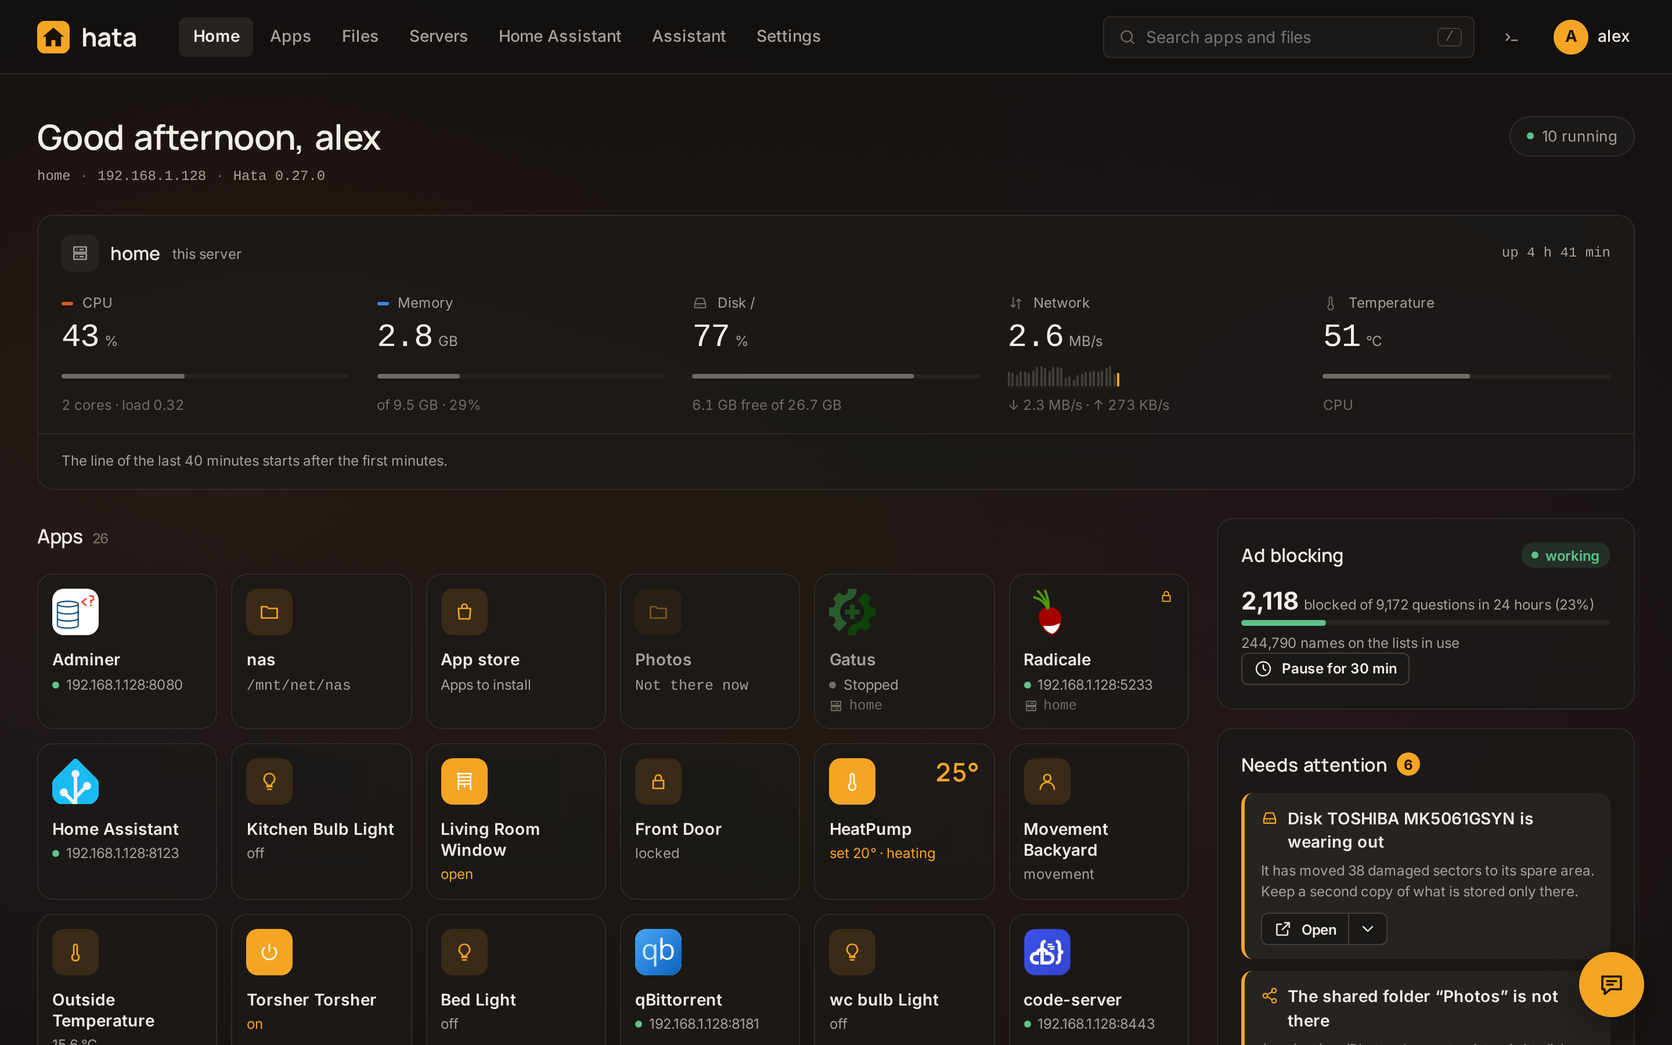
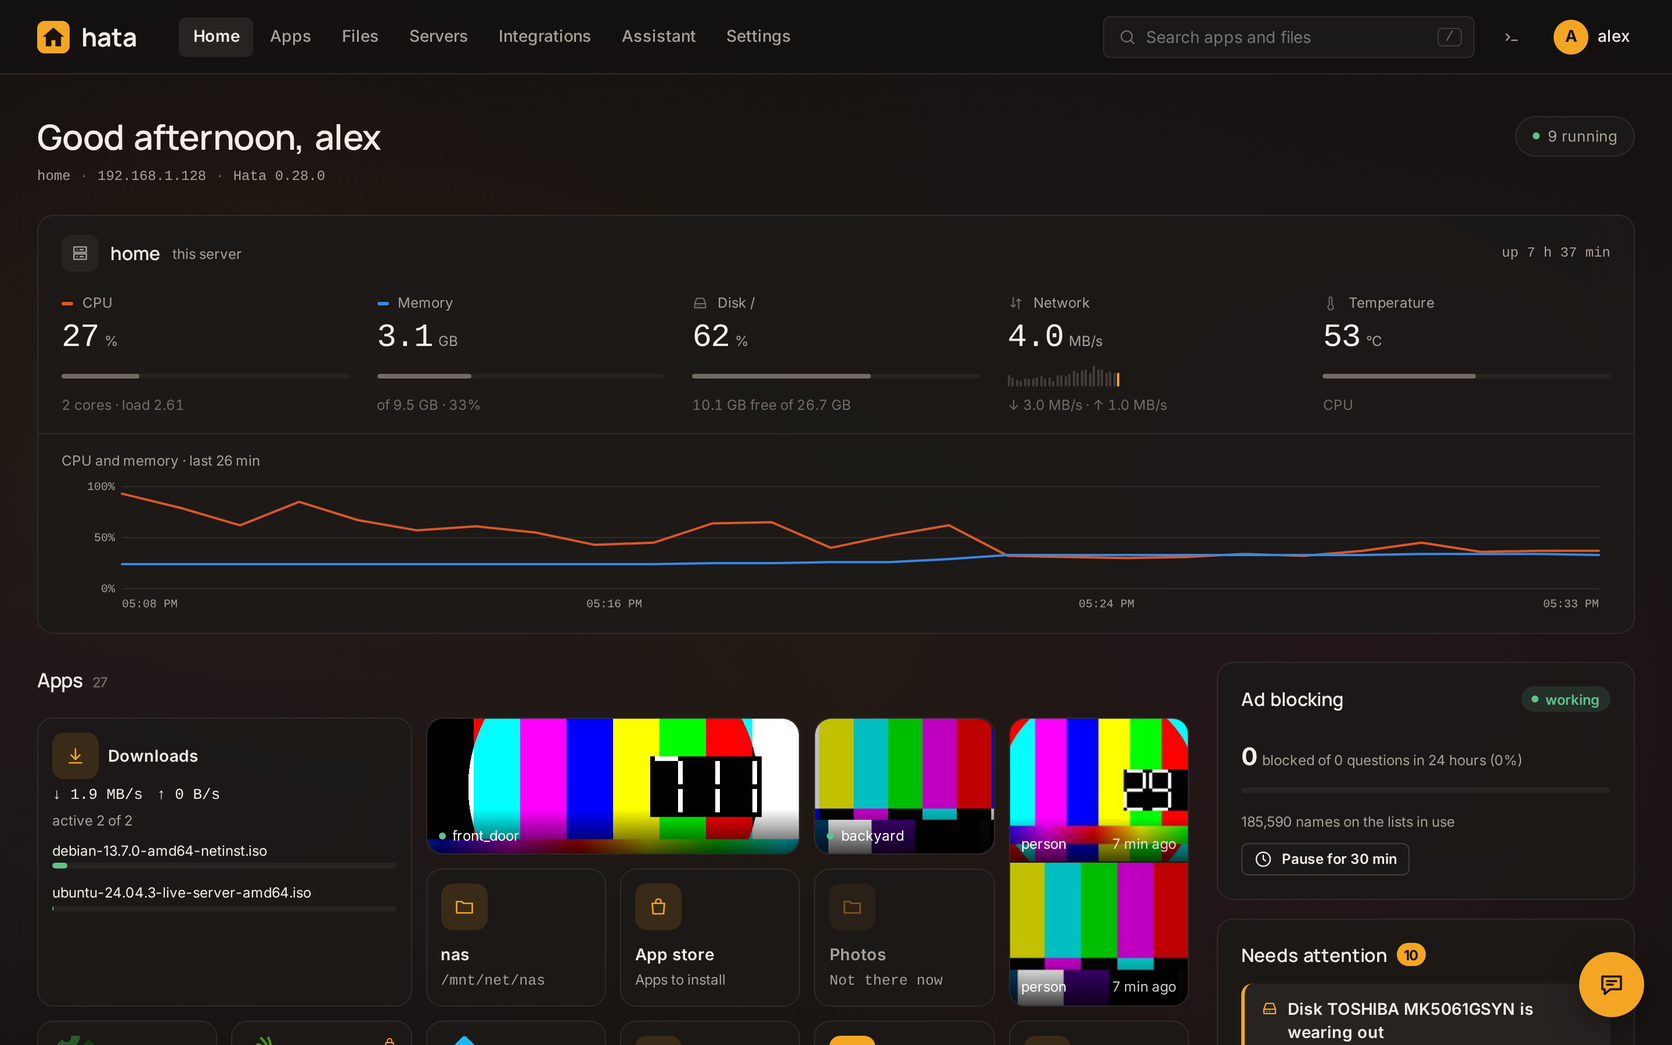
0.28.0: the README tells of integrations and widgets, with new pictures

diff --git a/src/version.ts b/src/version.ts
@@ -1,7 +1,7 @@
 /** Set by the build of a pre-release (`0.22.0-beta.1`): the tag says the suffix, this file the version */
 declare const HATA_BUILD_VERSION: string | undefined;
 
-export const VERSION = typeof HATA_BUILD_VERSION === "string" ? HATA_BUILD_VERSION : "0.27.0";
+export const VERSION = typeof HATA_BUILD_VERSION === "string" ? HATA_BUILD_VERSION : "0.28.0";
 
 /** true — running as the single-file binary (`bun build --compile`), not from source */
 export const COMPILED = Bun.main.startsWith("/$bunfs/");

diff --git a/README.uk.md b/README.uk.md
@@ -14,7 +14,7 @@ curl -fsSL https://raw.githubusercontent.com/sanyadez/hata/main/install.sh | sud
 
 На машині з Linux і systemd, x86_64 або arm64 — див. [Встановлення](#встановлення).
 
-![Головна сторінка: показники системи, плитки застосунків у групах, що потребує уваги й останні події](screenshots/dashboard.png)
+![Головна сторінка: показники системи, плитки застосунків і віджети в групах, що потребує уваги й останні події](screenshots/dashboard.png)
 
 | | |
 |---|---|
@@ -35,8 +35,8 @@ Nextcloud, Home Assistant, Pi-hole і ще значно більше сотні 
 резервні копії з відновленням усього застосунку чи окремих файлів, мережа самого сервера — Wi-Fi, запасний
 шлях до інтернету, точка доступу, — користувачі й те, кому що можна відкривати, HTTPS, сповіщення, коли
 щось ламається. Вона також доглядає інші комп'ютери дому через невеликий клієнт, створює контейнери й віртуальні машини
-на самому сервері, доглядає ті, що на сервері Proxmox VE, і виводить пристрої сервера Home Assistant на
-свою головну сторінку, а ще може бути DNS-сервером дому з блокуванням реклами. Повний перелік — у розділі [Стан](#стан).
+на самому сервері, доглядає ті, що на сервері Proxmox VE, і з'єднується із сервісами, що у вас уже працюють — пристрої
+Home Assistant, торенти qBittorrent, камери Frigate, — показуючи їх просто на головній сторінці, а ще може бути DNS-сервером дому з блокуванням реклами. Повний перелік — у розділі [Стан](#стан).
 
 **Аналог чого це?**
 Програм домашнього сервера того ж роду: Umbrel, Runtipi, Cosmos. На відміну від деяких із
@@ -304,12 +304,21 @@ Nextcloud, Home Assistant, Pi-hole і ще значно більше сотні 
   сторінці (серед систем є Ubuntu з робочим столом), її диск збільшується на прохання. Усередині
   контейнера, якому дано лише частину ідентифікаторів користувачів (непривілейований LXC, як у
   Proxmox), нічого з цього не пропонується, і сторінка каже чому;
-- сервери Home Assistant — за входом або токеном: їхні пристрої на головній сторінці Hata поруч із
+- інтеграції: одна сторінка того, з чим Hata з'єднана, там же пропонується знайдене в домашній мережі, а решта —
+  під кнопкою «Додати»; у самих сервісах нічого не встановлюється. Сервери Home Assistant — за входом або токеном: їхні пристрої на головній сторінці Hata поруч із
   застосунками — світло вмикається, змінюється яскравість, термостат, замок, що спершу питає, — хто їх
   бачить, обирається для кожного сервера, а члени родини перемикають лише те, що є на їхній головній.
   Оновлення сервера, його копії й пристрої з низьким зарядом — на його сторінці й у «Потребує уваги»;
   сервер, що працює як застосунок цього сервера, відкривається за доменом Hata, щойно йому сказано
   довіряти Hata, — це робить кнопка;
+- qBittorrent: його торенти на окремій сторінці — пошук і фільтри, пауза й продовження, додавання посиланням
+  або файлом, видалення разом із файлами чи без них; що він робить — на плитці й сторінці застосунку;
+  повідомлення, коли торент дає збій або пароль перестає підходити;
+- Frigate: його камери й те, що вони помітили, зі знімками, які лише передаються й не зберігаються, лише для
+  адміністраторів; повідомлення, коли камера замовкла. Власний сертифікат підтверджується один раз, і пароль
+  надсилається лише на нього. Рухоме відео лишається у Frigate;
+- віджети на головній сторінці розміром 1×1, 2×1, 1×2 або 2×2: торенти, камера, те, що помітили камери; плиткам
+  Home Assistant розмір задається так само;
 - HTTPS, три варіанти на вибір: без нього (адреса й порти, для домашньої мережі); за вашим власним проксі
   (nginx, Caddy, Traefik) із перевіркою, що проксі налаштовано правильно; або самою Hata із сертифікатами
   від Let's Encrypt: один сертифікат на назву або один на домен і всі назви під ним, підтверджений через API
@@ -323,7 +332,7 @@ Nextcloud, Home Assistant, Pi-hole і ще значно більше сотні 
 - MCP-сервер для ШІ-агентів: агент, який говорить MCP, може сказати, чому застосунок не працює (стан
   контейнерів, кінець журналу й імовірні причини в одній відповіді), оновлювати застосунки, встановлювати з
   магазину, робити й відновлювати знімки, доглядати машини, сервери Proxmox і контейнери, бачити мережу, спільні
-  теки, масиви й оновлення, змінювати назви, порти, DNS-назви й правила блокування, вмикати пристрої Home Assistant.
+  теки, масиви й оновлення, змінювати назви, порти, DNS-назви й правила блокування, вмикати пристрої Home Assistant, дивитися торенти й камери.
   Порт в інтернет він не відкриває і дверей не відмикає ніколи. Він підключається з ключем
   доступу, створеним у налаштуваннях, а ключ має один із трьох рівнів — дивитися, керувати, усе; жоден
   рівень не сягає користувачів, паролів, файлів чи оболонки. Секрети в compose-файлах сховано від ключів,
@@ -411,10 +420,12 @@ Nextcloud, Home Assistant, Pi-hole і ще значно більше сотні 
 | ![Контейнери й віртуальні машини цього сервера з їхніми обмеженнями й місцем, де вони живуть](screenshots/containers.png) Контейнери й віртуальні машини цього сервера з їхніми обмеженнями й місцем, де вони живуть | ![Нова віртуальна машина: Ubuntu з робочим столом](screenshots/container-new.png) Нова віртуальна машина: Ubuntu з робочим столом |
 | ![Сторінка віртуальної машини: екран, обмеження, знімки](screenshots/vm-screen.png) Сторінка віртуальної машини: екран, обмеження, знімки | ![Їхня мережа, місця й образи дисків](screenshots/containers-settings.png) Їхня мережа, місця й образи дисків |
 
-### Home Assistant
+### Інтеграції
 
 | | |
 |---|---|
+| ![З чим Hata з'єднана, що знайшла, а решта — під «Додати»](screenshots/integrations.png) З чим Hata з'єднана, що знайшла, а решта — під «Додати» | ![Віджети на Головній і вибір розміру](screenshots/widget-size.png) Віджети на Головній і вибір розміру |
+| ![Торенти qBittorrent](screenshots/qbittorrent.png) Торенти qBittorrent | ![Камери Frigate і те, що вони помітили (тут — тестове зображення)](screenshots/frigate.png) Камери Frigate і те, що вони помітили (тут — тестове зображення) |
 | ![Home Assistant: сервери, пристрої за кімнатами, оновлення, батарейки, копії](screenshots/home-assistant.png) Home Assistant: сервери, пристрої за кімнатами, оновлення, батарейки, копії | |
 
 ### Перший запуск

diff --git a/README.md b/README.md
@@ -14,7 +14,7 @@ curl -fsSL https://raw.githubusercontent.com/sanyadez/hata/main/install.sh | sud
 
 On a Linux machine with systemd, x86_64 or arm64 — see [Install](#install).
 
-![The dashboard: system numbers, app tiles in groups, what needs attention and recent activity](screenshots/dashboard.png)
+![The dashboard: system numbers, app tiles and widgets in groups, what needs attention and recent activity](screenshots/dashboard.png)
 
 | | |
 |---|---|
@@ -35,8 +35,8 @@ network, disks, their health and protection from a disk failure, backups with re
 single files, the server's own network — Wi-Fi, a spare way to the internet, an access point —, users and
 who may open what, HTTPS, notifications when something breaks. It also looks after the other computers of
 the house through a small client, makes containers and virtual machines on the server itself, looks after
-those of a Proxmox VE server, puts the devices of a Home Assistant server on its home page, and can be the
-home's DNS server with ad blocking. The full
+those of a Proxmox VE server, connects to services you already run — the devices of Home Assistant, the torrents of qBittorrent, the cameras of
+Frigate — and shows them right on its home page, and can be the home's DNS server with ad blocking. The full
 list is under [Status](#status).
 
 **What is it an alternative to?**
@@ -298,11 +298,20 @@ Early development. What works today:
   (Ubuntu with a desktop among the systems), its disk grows when asked. Inside a container that was given
   only part of the user ids (an unprivileged LXC, for one of Proxmox) none of this is offered, and the
   page says why;
-- Home Assistant servers, by a sign-in or a token: their devices put on Hata's home page next to the
+- Integrations, one page of what Hata is connected to, with what it found on the home network offered there and
+  an "Add" button for the rest; nothing is installed in the services themselves. Home Assistant servers, by a sign-in or a token: their devices put on Hata's home page next to the
   apps — a light switched, its brightness, a thermostat, a lock that asks first —, who sees them chosen
   per server, members switching only what is on their home page. A server's updates, its backups and its
   devices with a low battery are on its page and under "needs attention"; one running as an app of this
   server is opened by Hata's domain once it is told to trust Hata, which a button does;
+- qBittorrent: its torrents on a page of their own, searched and filtered, paused and resumed, added by a
+  link or a file, removed with or without their files; what it is doing on the app's tile and page; a word
+  when a torrent fails or the password stops being accepted;
+- Frigate: its cameras and what they noticed, with pictures that pass through and are not kept, for
+  administrators only; a word when a camera stops. A certificate of its own is confirmed once, and the
+  password goes only to that certificate. The moving video stays in Frigate;
+- widgets on the home page, in 1×1, 2×1, 1×2 or 2×2 cells: torrents, a camera, what the cameras noticed; tiles of
+  Home Assistant can be sized the same way;
 - HTTPS, your choice of three: none (address and ports, for a home network); behind your own proxy (nginx,
   Caddy, Traefik) with a check that the proxy is set up right; or by Hata itself with certificates from
   Let's Encrypt — one certificate per name, or one for the domain and every name under it, confirmed by a DNS
@@ -316,7 +325,7 @@ Early development. What works today:
 - an MCP server for AI agents: an agent that speaks MCP can say why an app is down (state of the
   containers, the tail of the log and the likely causes in one answer), update apps, install from the store,
   take and restore snapshots, look after the machines and the Proxmox servers and containers, see the network,
-  shares, arrays and updates, change names, ports, DNS names and blocking rules, switch Home Assistant's devices.
+  shares, arrays and updates, change names, ports, DNS names and blocking rules, switch Home Assistant's devices, look at the torrents and the cameras.
   It never opens a port to the internet or unlocks a door. It connects with an access key made in the settings, and a key has one of
   three levels — look, operate, everything; no level reaches users, passwords, files or a shell. Secrets in
   compose files are hidden from keys that may not change them, and what an agent did is in the activity log
@@ -400,10 +409,12 @@ in Google Drive or Box.
 | ![Containers and virtual machines of this server, with their limits and the place they live in](screenshots/containers.png) Containers and virtual machines of this server, with their limits and the place they live in | ![A new virtual machine: Ubuntu with a desktop](screenshots/container-new.png) A new virtual machine: Ubuntu with a desktop |
 | ![A virtual machine's page: its screen, limits, snapshots](screenshots/vm-screen.png) A virtual machine's page: its screen, limits, snapshots | ![Their network, places and disc images](screenshots/containers-settings.png) Their network, places and disc images |
 
-### Home Assistant
+### Integrations
 
 | | |
 |---|---|
+| ![What Hata is connected to, what it found, and everything else under "Add"](screenshots/integrations.png) What Hata is connected to, what it found, and everything else under "Add" | ![Widgets on Home, and the choice of a size](screenshots/widget-size.png) Widgets on Home, and the choice of a size |
+| ![The torrents of a qBittorrent](screenshots/qbittorrent.png) The torrents of a qBittorrent | ![The cameras of a Frigate and what they noticed (a test picture here)](screenshots/frigate.png) The cameras of a Frigate and what they noticed (a test picture here) |
 | ![Home Assistant: servers, devices by room, updates, batteries, backups](screenshots/home-assistant.png) Home Assistant: servers, devices by room, updates, batteries, backups | |
 
 ### First run

diff --git a/COMPARISON.uk.md b/COMPARISON.uk.md
@@ -3,7 +3,7 @@
 [English](COMPARISON.md) · **Українська**
 
 Що мають програми домашнього сервера того ж роду, що й Hata, станом на **жовтень 2026 року**. Порівнюються
-версії: Hata 0.27, umbrelOS 2.0, ZimaOS 1.7, CasaOS 0.4.15, Runtipi 4.10, Cosmos 0.23, Unraid 7.3.
+версії: Hata 0.28, umbrelOS 2.0, ZimaOS 1.7, CasaOS 0.4.15, Runtipi 4.10, Cosmos 0.23, Unraid 7.3.
 
 Кожна клітинка про інший продукт узята з його власної документації, нотаток до випусків або вихідного
 коду — див. [Джерела](#джерела). «—» означає, що вбудованого нема, наскільки з них видно; окремий

diff --git a/COMPARISON.md b/COMPARISON.md
@@ -2,7 +2,7 @@
 
 **English** · [Українська](COMPARISON.uk.md)
 
-What the home server programs of Hata's kind have, as of **October 2026**. Versions compared: Hata 0.27,
+What the home server programs of Hata's kind have, as of **October 2026**. Versions compared: Hata 0.28,
 umbrelOS 2.0, ZimaOS 1.7, CasaOS 0.4.15, Runtipi 4.10, Cosmos 0.23, Unraid 7.3.
 
 Every cell about another product comes from its own documentation, release notes or source code — see
